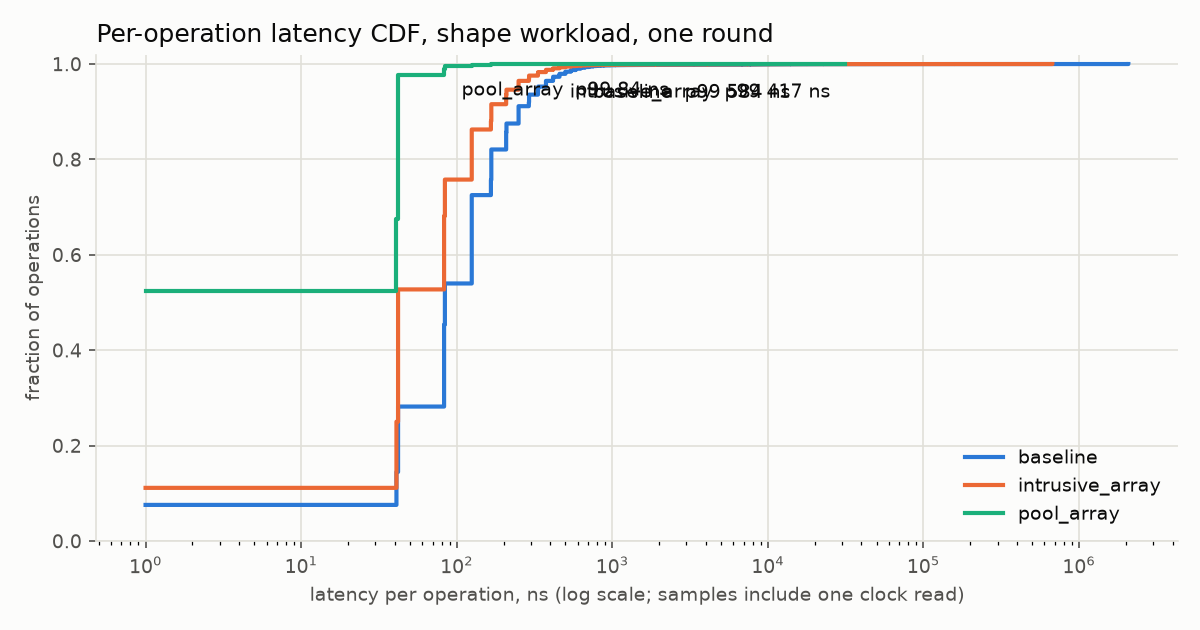
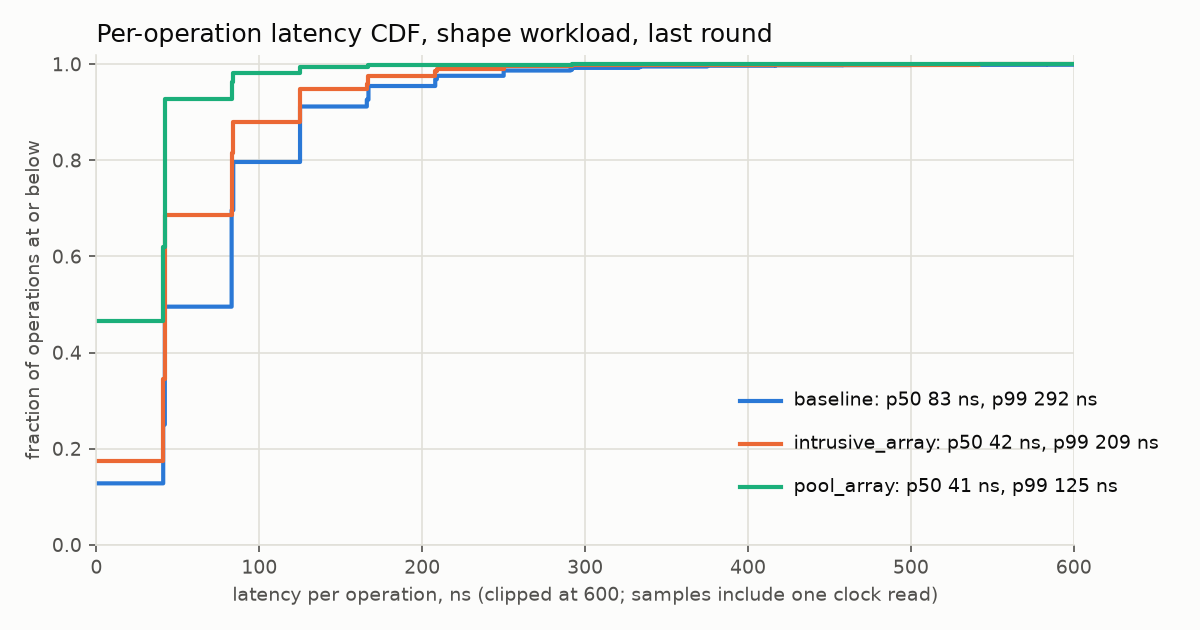
I: README charts generated from committed bench output
tools/plot_bench.py draws bench/plots/{throughput,latency_cdf,depth}.png
from bench/results.json, bench/data/latency_hist_*_shape.csv and
bench/py_parity/py_parity_expected.json, so every plotted number traces to
a committed file. Throughput uses one panel per workload (each has its own
scale; no dual axes). Colors are the first three slots of a palette checked
with a CVD/contrast validator; lines carry direct labels because one slot
is below 3:1 contrast.

Changed region(s): [[0.0, 0.0302, 0.9867, 0.9651]]

diff --git a/tools/plot_bench.py b/tools/plot_bench.py
@@ -1,0 +1,163 @@
+"""Draw the README charts from committed benchmark output (upgrade I).
+
+Inputs (all committed, all produced by bench/run_all.py or the trace export):
+  bench/results.json                          throughput medians
+  bench/data/latency_hist_<book>_shape.csv    per-op latency histogram, last round
+  bench/py_parity/py_parity_expected.json     end-state book of the py_parity run
+Outputs: bench/plots/*.png. Every number drawn comes from those files.
+
+Usage (needs matplotlib; the Python engine repo's venv has it):
+    ../Order_book_project/.venv/bin/python3.11 tools/plot_bench.py
+"""
+from __future__ import annotations
+
+import csv
+import json
+from pathlib import Path
+
+import matplotlib
+
+matplotlib.use("Agg")  # files only, no window
+import matplotlib.pyplot as plt  # noqa: E402
+
+ROOT = Path(__file__).resolve().parents[1]
+OUT = ROOT / "bench" / "plots"
+
+# Validated categorical slots 1-3 (blue, orange, aqua) on a light surface;
+# checked with the dataviz palette validator. Aqua is below 3:1 contrast, so
+# every line is also labeled directly.
+BLUE, ORANGE, AQUA = "#2a78d6", "#eb6834", "#1baf7a"
+SURFACE, INK, INK_2, GRID = "#fcfcfb", "#0b0b0b", "#52514e", "#e1e0d9"
+
+
+def style(ax) -> None:
+    ax.set_facecolor(SURFACE)
+    for side in ("top", "right"):
+        ax.spines[side].set_visible(False)
+    for side in ("left", "bottom"):
+        ax.spines[side].set_color(GRID)
+    ax.tick_params(colors=INK_2, labelsize=9)
+    ax.grid(color=GRID, linewidth=0.8)
+    ax.set_axisbelow(True)
+
+
+def throughput_chart(results: dict) -> None:
+    """One panel per workload: each has its own scale, so they are separate
+    panels (never two scales on one axis)."""
+    workloads = ["py_parity", "shape", "wide"]
+    rows = results["throughput"]
+    books = list(dict.fromkeys(r["book"] for r in rows))
+    fig, axes = plt.subplots(1, 3, figsize=(12, 3.6), facecolor=SURFACE)
+    for ax, wl in zip(axes, workloads):
+        style(ax)
+        ax.grid(axis="y", visible=False)
+        vals = {r["book"]: r["orders_per_sec_median"] / 1e6 for r in rows if r["workload"] == wl}
+        ys = range(len(books))
+        ax.barh(list(ys), [vals[b] for b in books], height=0.55, color=BLUE)
+        ax.set_yticks(list(ys), books)
+        ax.invert_yaxis()  # first book on top
+        top = max(vals.values())
+        for y, b in zip(ys, books):
+            ax.text(vals[b] + top * 0.02, y, f"{vals[b]:.1f}M", va="center", color=INK, fontsize=9)
+        ax.set_xlim(0, top * 1.25)
+        ax.set_title(f"{wl}", color=INK, fontsize=11, loc="left")
+        ax.set_xlabel("orders/sec (millions), median", color=INK_2, fontsize=9)
+    fig.suptitle("Throughput by book variant (one thread; bench/RESULTS.md)", color=INK, fontsize=12,
+                 x=0.01, ha="left")
+    fig.tight_layout()
+    fig.savefig(OUT / "throughput.png", dpi=150)
+    plt.close(fig)
+
+
+def read_hist(path: Path) -> tuple[list[int], list[float]]:
+    xs, counts = [], []
+    with path.open() as f:
+        for row in csv.DictReader(f):
+            xs.append(int(row["latency_ns"]))
+            counts.append(int(row["count"]))
+    total = sum(counts)
+    cum, acc = [], 0
+    for c in counts:
+        acc += c
+        cum.append(acc / total)
+    return xs, cum
+
+
+def latency_chart() -> None:
+    """CDF of per-op latency (all op kinds, shape workload) for three books.
+
+    Linear x axis clipped at 600 ns so the body of the distribution is
+    readable; the clipped tail (p99.9, max) is in the RESULTS.md table. Drawn
+    as steps because the clock itself moves in about 41 ns steps, and a
+    sample of 0 ns means "under one clock step"."""
+    fig, ax = plt.subplots(figsize=(8, 4.2), facecolor=SURFACE)
+    style(ax)
+    books = (("baseline", BLUE), ("intrusive_array", ORANGE), ("pool_array", AQUA))
+    for row, (book, color) in enumerate(books):
+        xs, cum = read_hist(ROOT / f"bench/data/latency_hist_{book}_shape.csv")
+        ax.step(xs, cum, where="post", color=color, linewidth=2, label=book)
+        p50 = xs[next(k for k, c in enumerate(cum) if c >= 0.50)]
+        p99 = xs[next(k for k, c in enumerate(cum) if c >= 0.99)]
+        # Legend rows stacked in the empty lower-right area: a colored swatch
+        # carries identity, the text stays in ink (text never takes the series
+        # color), and the p50/p99 values label each line directly.
+        y = 0.30 - row * 0.09
+        ax.plot([395, 420], [y, y], color=color, linewidth=2)
+        ax.text(428, y, f"{book}: p50 {p50} ns, p99 {p99} ns", va="center", color=INK, fontsize=9)
+    ax.set_xlim(0, 600)
+    ax.set_ylim(0, 1.02)
+    ax.set_xlabel("latency per operation, ns (clipped at 600; samples include one clock read)",
+                  color=INK_2, fontsize=9)
+    ax.set_ylabel("fraction of operations at or below", color=INK_2, fontsize=9)
+    ax.set_title("Per-operation latency CDF, shape workload, last round", color=INK, fontsize=12, loc="left")
+    # The swatch + text rows above are the legend; no second legend box.
+    fig.tight_layout()
+    fig.savefig(OUT / "latency_cdf.png", dpi=150)
+    plt.close(fig)
+
+
+def depth_chart(expected: dict) -> None:
+    """Cumulative resting qty away from the touch, py_parity end state (the
+    C++ books and the Python engine end in this same state)."""
+    bids = expected["bids"]  # best (highest) first
+    asks = expected["asks"]  # best (lowest) first
+
+    def cumulative(levels):
+        px, qty, acc = [], [], 0
+        for p, q in levels:
+            acc += q
+            px.append(p / 100)
+            qty.append(acc)
+        return px, qty
+
+    fig, ax = plt.subplots(figsize=(8, 4.2), facecolor=SURFACE)
+    style(ax)
+    bx, by = cumulative(bids)
+    axx, ayy = cumulative(asks)
+    ax.step(bx, by, where="post", color=BLUE, linewidth=2)
+    ax.step(axx, ayy, where="post", color=ORANGE, linewidth=2)
+    ax.annotate(f"best bid {bx[0]:.2f}", (bx[0], by[0]), xytext=(6, 14), textcoords="offset points",
+                color=INK, fontsize=9)
+    ax.annotate(f"best ask {axx[0]:.2f}", (axx[0], ayy[0]), xytext=(-78, 14), textcoords="offset points",
+                color=INK, fontsize=9)
+    ax.set_xlabel("price ($, ticks / 100)", color=INK_2, fontsize=9)
+    ax.set_ylabel("cumulative resting qty", color=INK_2, fontsize=9)
+    ax.set_title("Book depth at the end of the py_parity workload", color=INK, fontsize=12, loc="left")
+    ax.legend(["bids", "asks"], frameon=False, fontsize=9, labelcolor=INK, loc="upper center")
+    fig.tight_layout()
+    fig.savefig(OUT / "depth.png", dpi=150)
+    plt.close(fig)
+
+
+def main() -> None:
+    OUT.mkdir(parents=True, exist_ok=True)
+    results = json.loads((ROOT / "bench/results.json").read_text())
+    expected = json.loads((ROOT / "bench/py_parity/py_parity_expected.json").read_text())
+    throughput_chart(results)
+    latency_chart()
+    depth_chart(expected)
+    print(f"wrote {', '.join(p.name for p in sorted(OUT.glob('*.png')))} to {OUT}")
+
+
+if __name__ == "__main__":
+    main()
